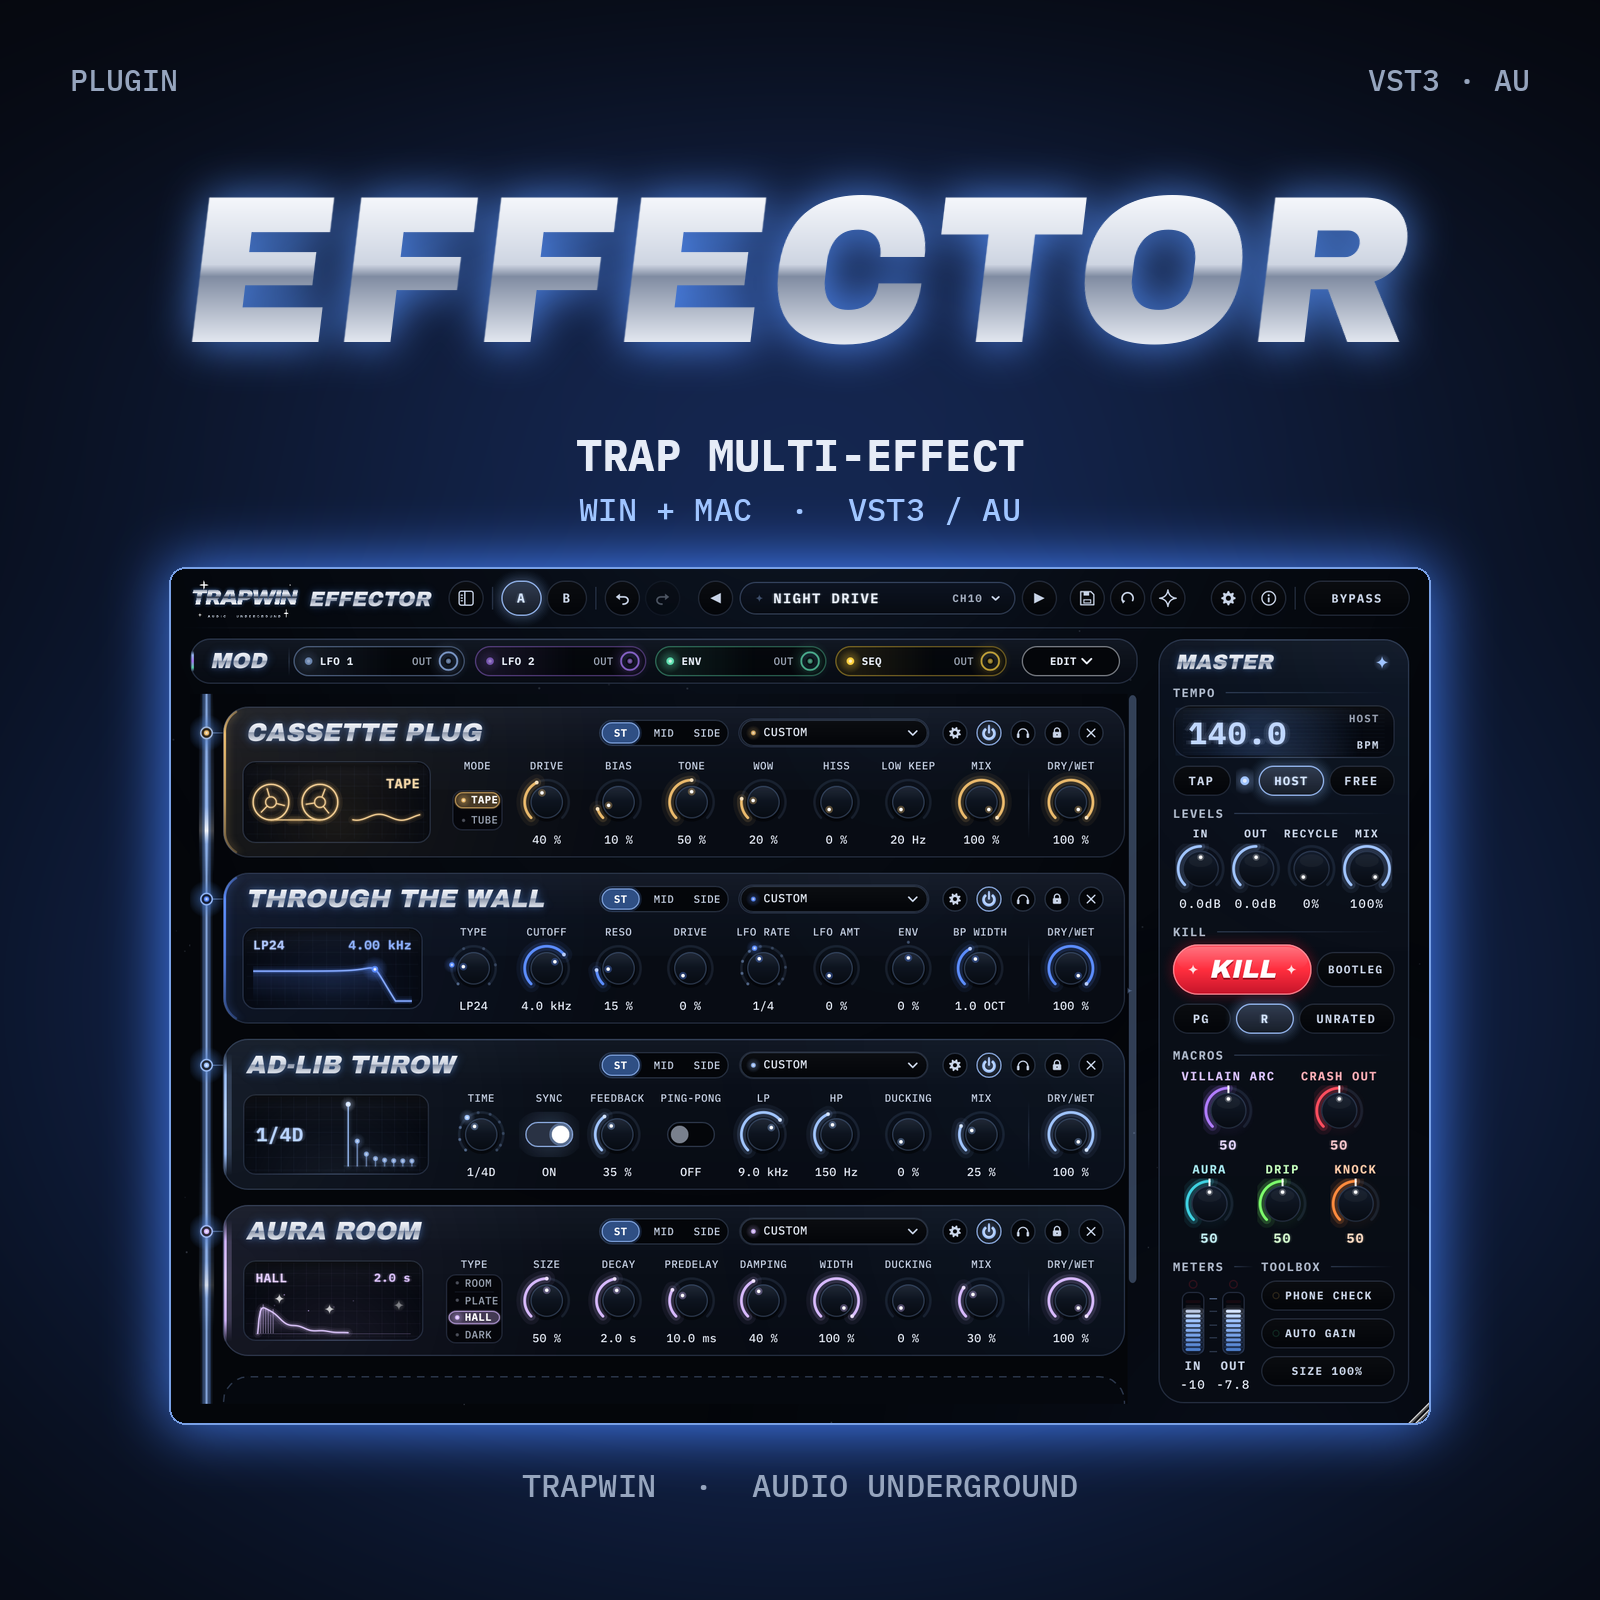
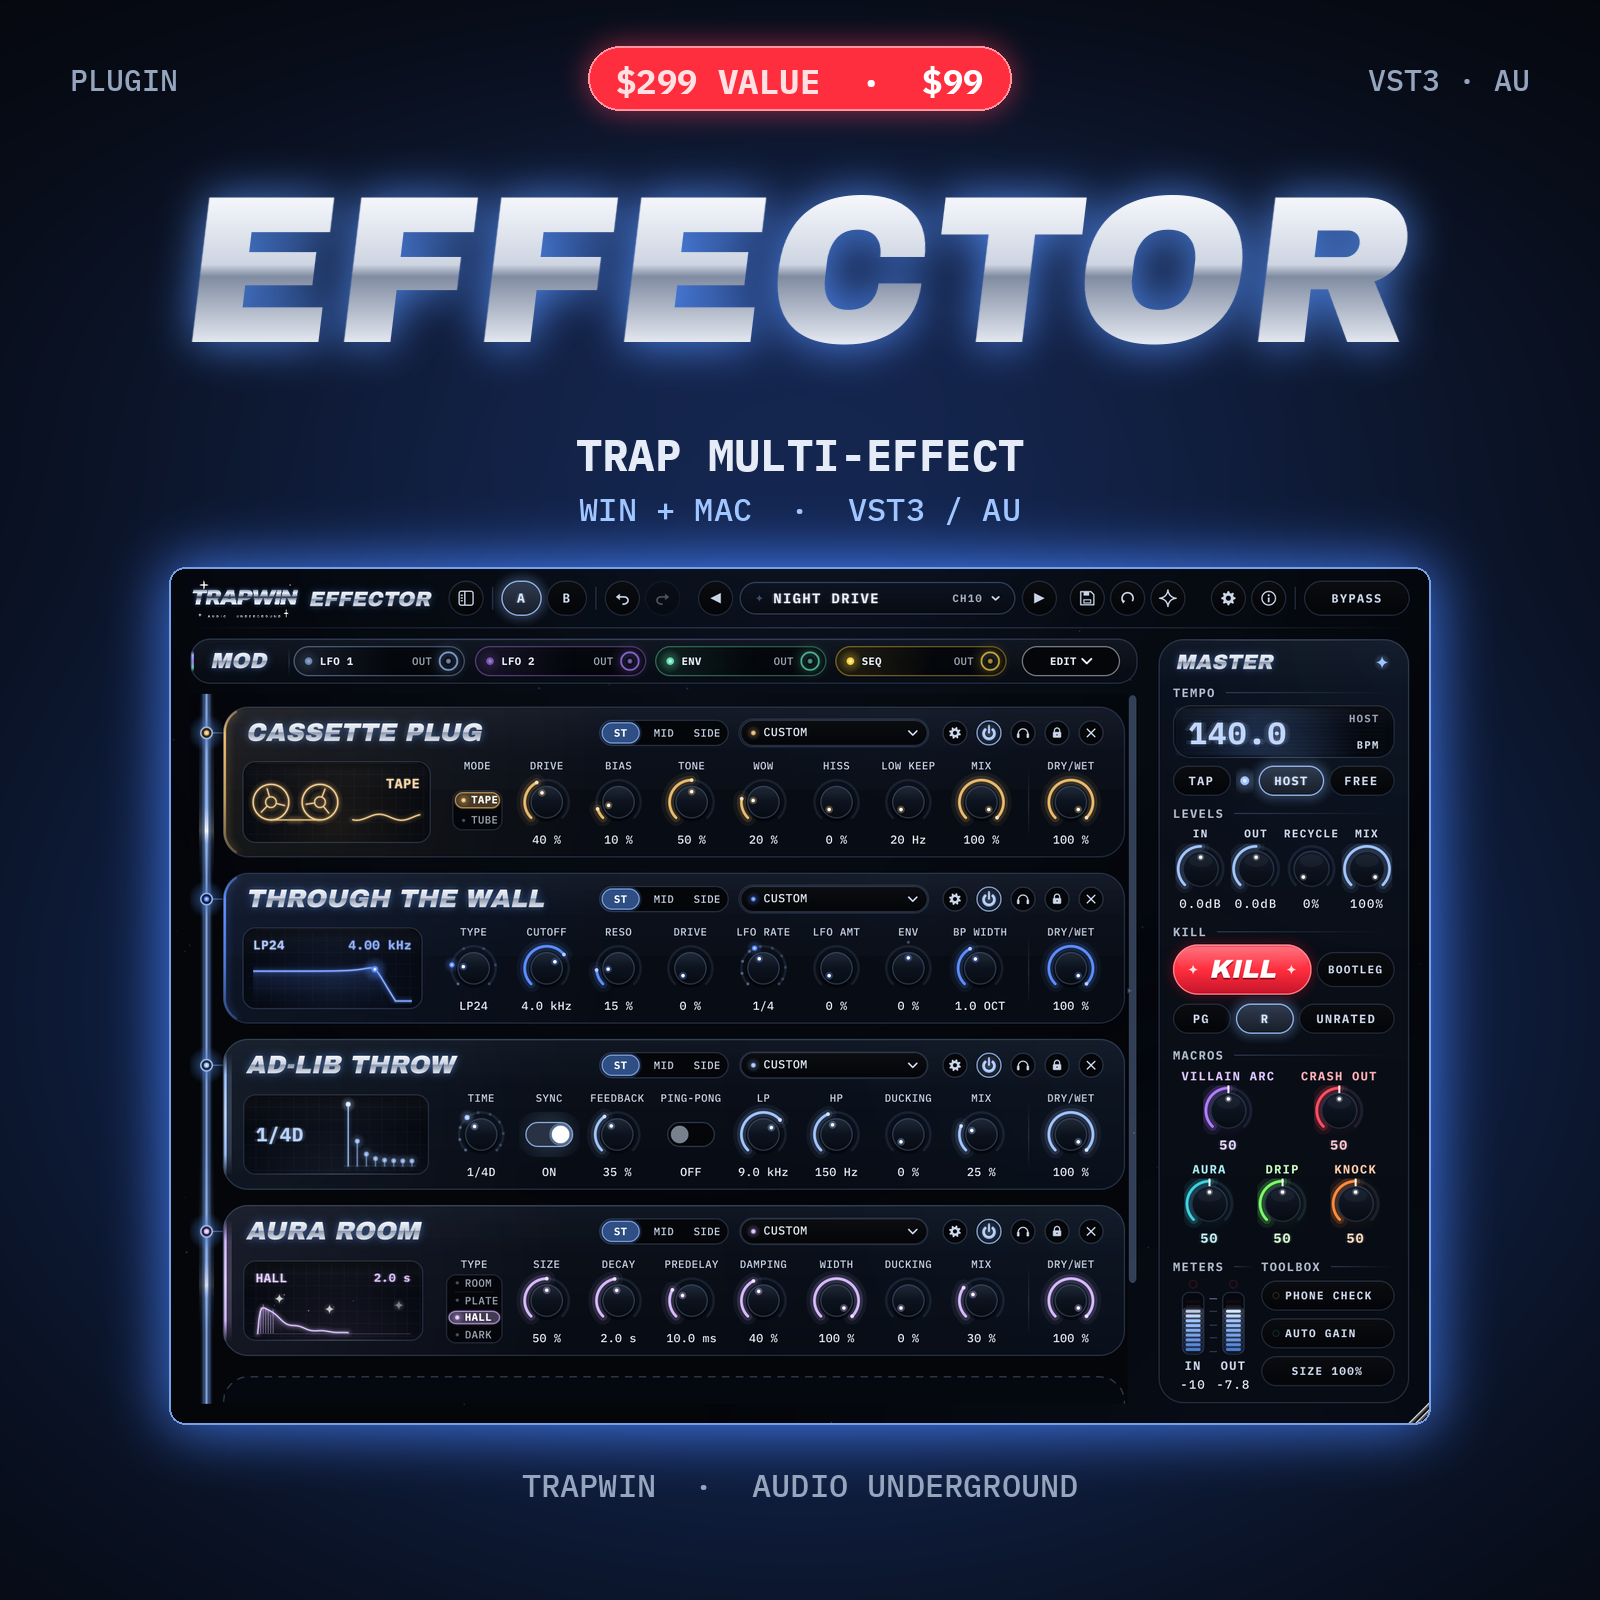
Shop cover: $299 VALUE · $99 badge [skip ci]
Claude-Session: https://claude.ai/code/session_01KmC4g2GxKyZmfYhaZr1t2r

Changed region(s): [[0.3438, 0.0, 0.6562, 0.0938]]

diff --git a/Tools/make_cover.py b/Tools/make_cover.py
@@ -2,7 +2,7 @@
 small "PLUGIN" / "VST3 · AU" corners, big chrome EFFECTOR, subtitle, UI render with an ice-blue
 glow frame, "TRAPWIN · AUDIO UNDERGROUND" footer. No big TRAPWIN logo on the cover.
 
-usage: python3 -I Tools/make_cover.py <ui_2x.png> <out.png>
+usage: python3 -I Tools/make_cover.py <ui_2x.png> <out.png> [badge]
 The UI render comes from the snapshot tool (00_cover_ui.png).
 """
 import sys, os
@@ -79,5 +79,22 @@ im.paste(ui, (x, y), mask)
 d = ImageDraw.Draw(im)
 d.rounded_rectangle((x - 1, y - 1, x + tw, y + th), radius=16, outline=(120, 160, 230), width=2)
 centre('TRAPWIN  ·  AUDIO UNDERGROUND', y + th + 40, f2, (150, 165, 190))
+
+# value badge (top-right of the UI frame): "$299 VALUE · $99"
+if len(sys.argv) > 3 and sys.argv[3]:
+    fb = ImageFont.truetype(F + 'osd.ttf', 34)
+    a, b = '$299 VALUE', '  ·  $99'
+    wa, wb = d.textlength(a, font=fb), d.textlength(b, font=fb)
+    bw, bh = int(wa + wb + 56), 64
+    bx, by = (W - bw) // 2, 46   # top centre, between the PLUGIN / VST3 · AU corner labels
+    gl = Image.new('L', (W, H), 0)
+    ImageDraw.Draw(gl).rounded_rectangle((bx, by, bx + bw, by + bh), radius=bh // 2, fill=255)
+    gl = np.asarray(gl.filter(ImageFilter.GaussianBlur(14)))[..., None] / 255.0
+    im = Image.fromarray((np.asarray(im).astype(np.float32) + gl * np.array([255, 46, 62]) * 0.55).clip(0, 255).astype(np.uint8))
+    d = ImageDraw.Draw(im)
+    d.rounded_rectangle((bx, by, bx + bw, by + bh), radius=bh // 2, fill=(255, 46, 62), outline=(255, 150, 160), width=2)
+    d.text((bx + 28, by + 13), a, font=fb, fill=(255, 225, 228))
+    d.text((bx + 28 + wa, by + 13), b, font=fb, fill=(255, 255, 255))
+
 im.save(out_p)
 print('wrote', out_p, 'UI', tw, 'x', th, 'bottom', y + th)
